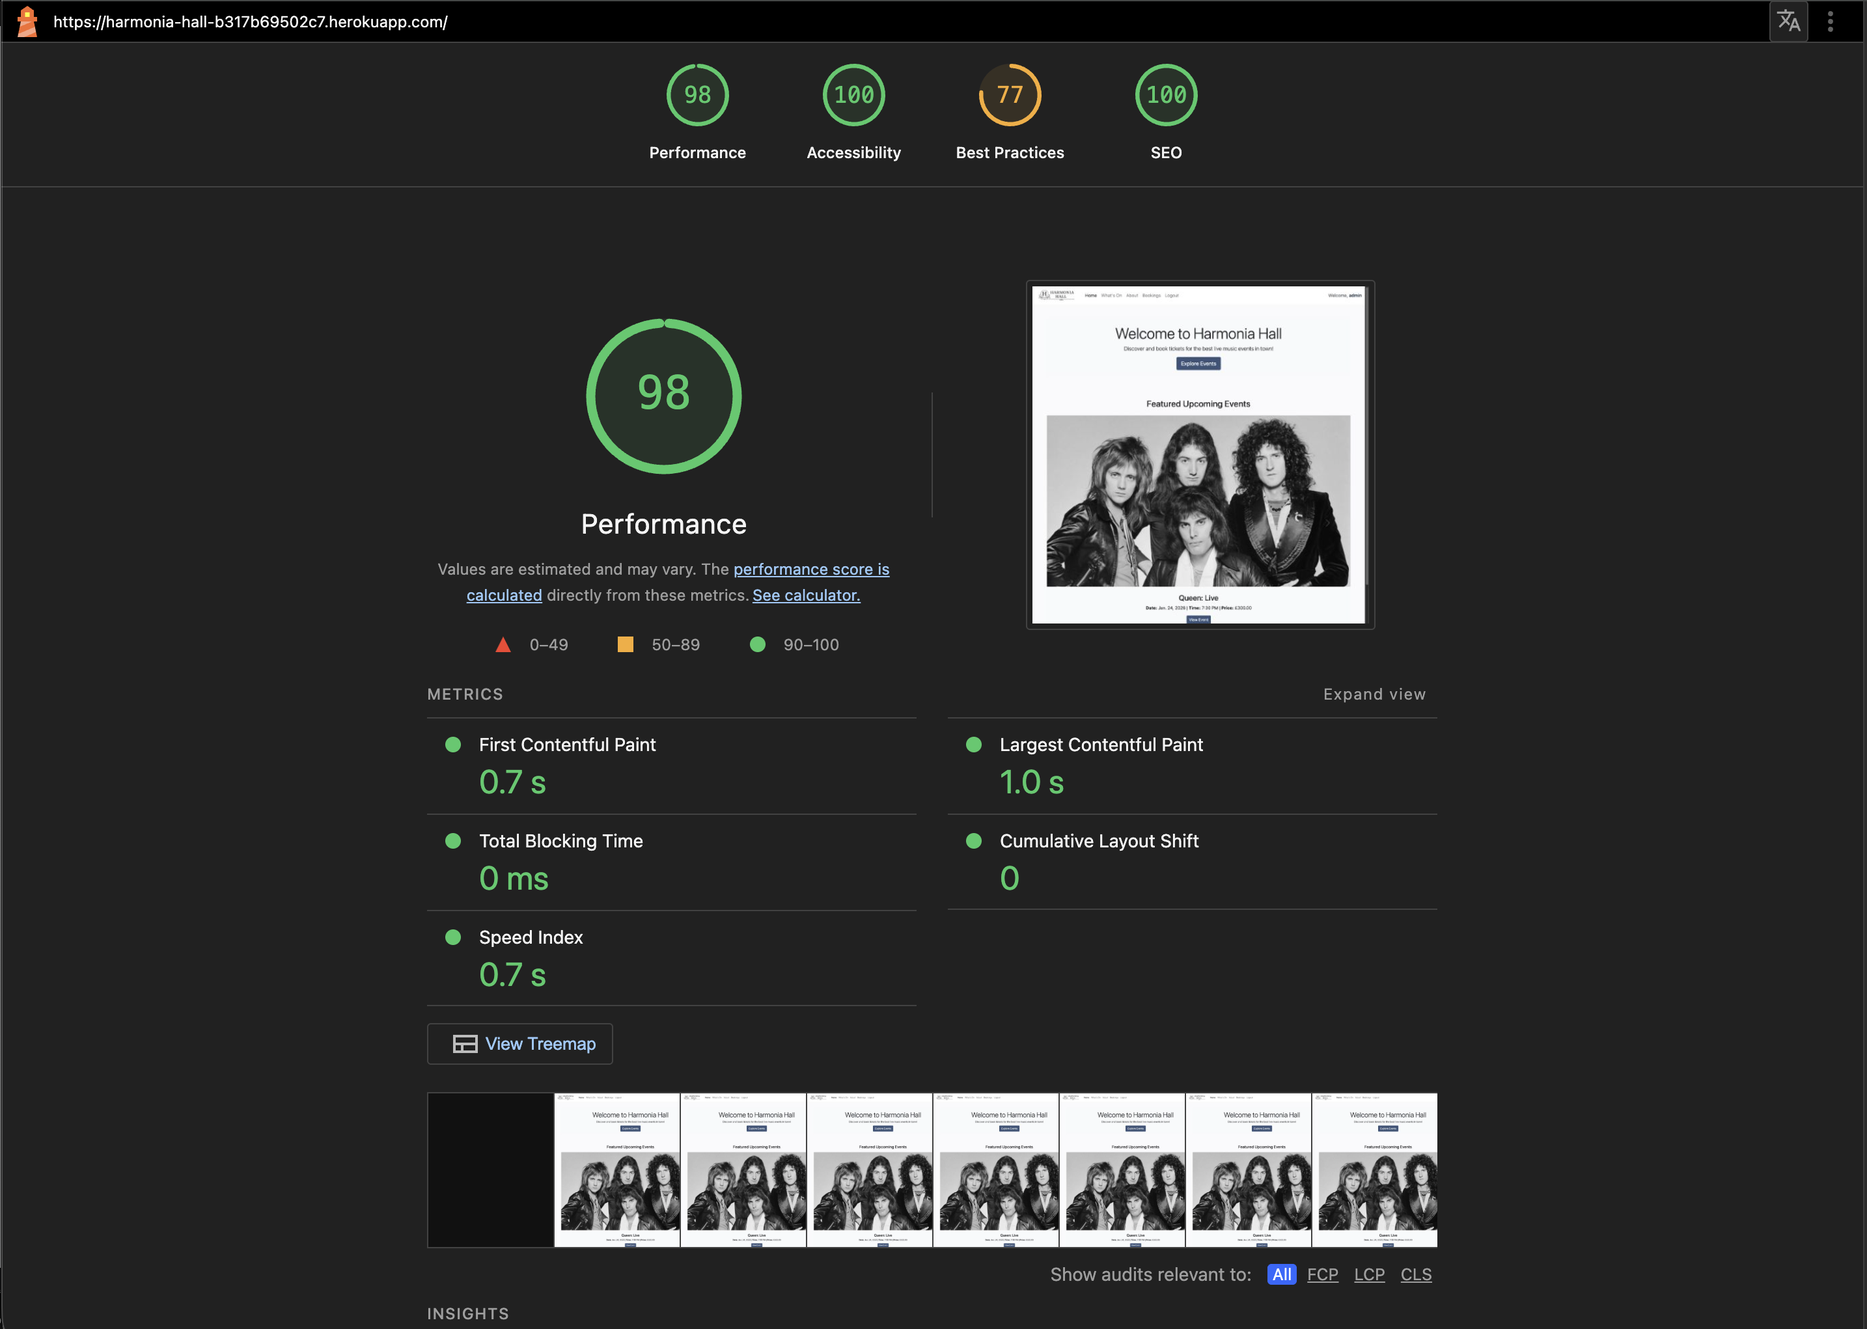
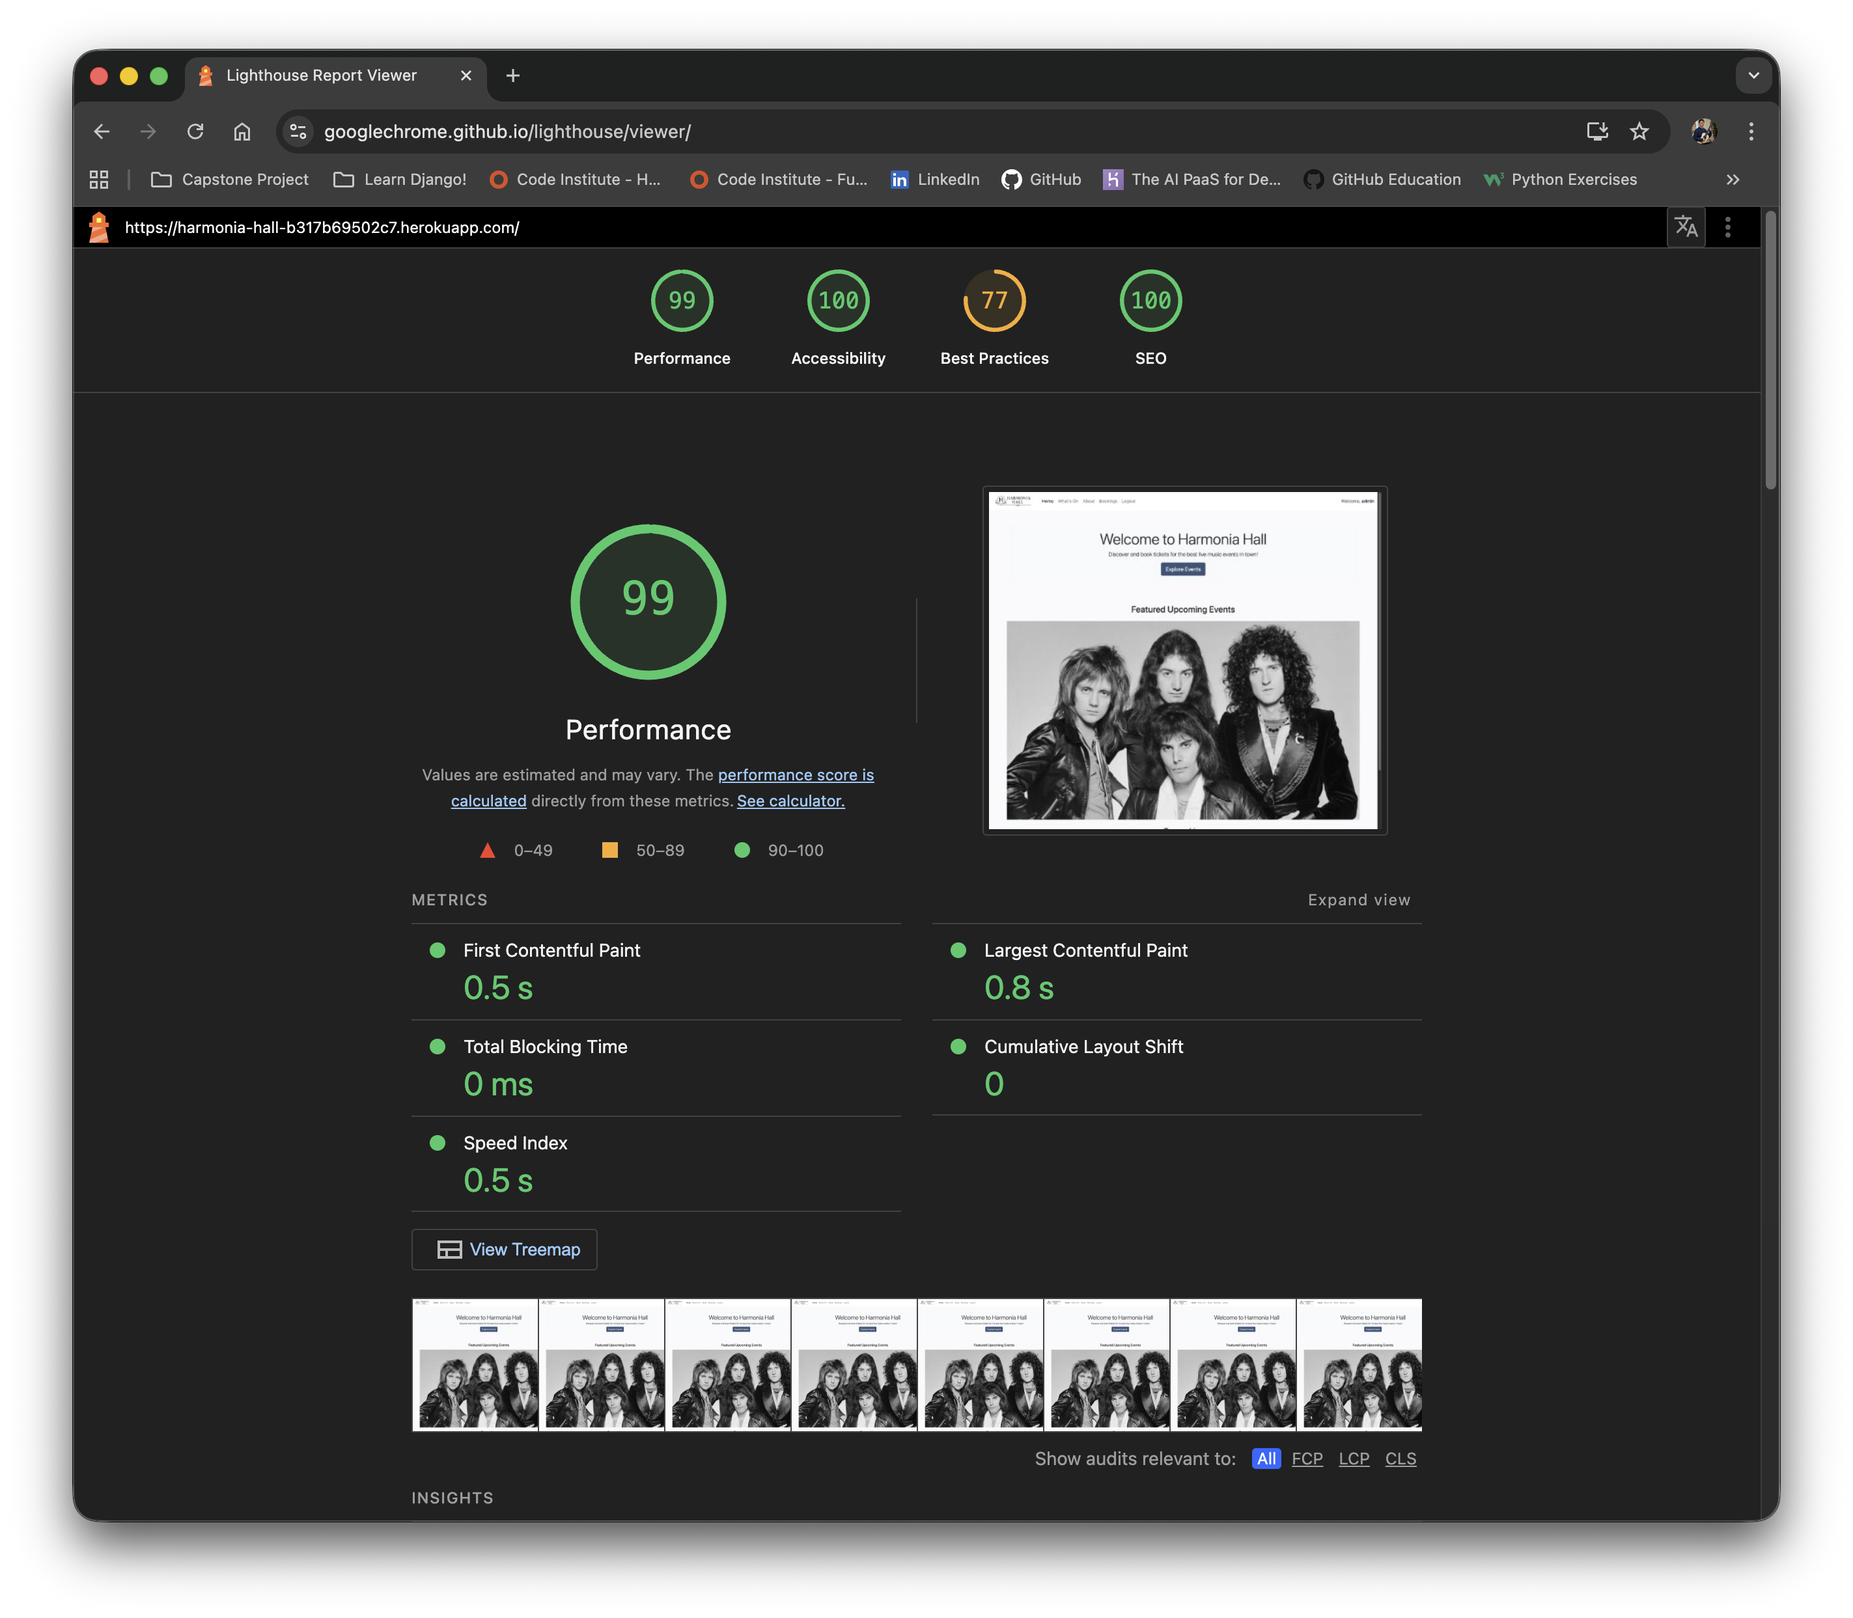
Update README.md for improved structure and clarity; add MVP features section

diff --git a/README.md b/README.md
@@ -1,6 +1,6 @@
 # Harmonia Hall
 
-<!-- TABLE OF CONTENTS (to be modified for this project) -->
+<!-- Table of Contents -->
 <details>
   <summary>Index</summary>
   <ol>
@@ -9,6 +9,7 @@
       <ul>
         <li><a href="#overview">Overview</a></li>
         <li><a href="#rationale">Rationale</a></li>
+        <li><a href="#MVP-features">MVP Features</a></li>
         <li><a href="#desktop-appearance">Desktop Appearance</a></li>
         <li><a href="#tablet-appearance">Tablet Appearance</a></li>
         <li><a href="#mobile-appearance">Mobile Appearance</a></li>
@@ -35,14 +36,16 @@
     <li><a href="#features">Features</a></li>
       <ul>
         <li><a href="#home-page">Home Page</a></li>
+        <li><a href="#whats-on-page">What's On Page</a></li>
         <li><a href="#about-page">About Page</a></li>
-        <li><a href="#contact-page">Contact Page</a></li>
+        <li><a href="#event-detail-page">Event Detail Page</a></li>
+        <li><a href="#sign-in">Sign In</a></li>
+        <li><a href="#sign-out">Sign Out</a></li>
         <li><a href="#bookings-page">Bookings Page</a></li>
         <li><a href="#navigation-bar">Navigation Bar</a></li>
         <li><a href="#footer">Footer</a></li>
-        <li><a href="#sign-in">Sign In</a></li>
-        <li><a href="#sign-out">Sign Out</a></li>
-        <li><a href="#admin">Admin</a></li>
+        <li><a href="#django-admin-login">Django Admin Login</a></li>
+        <li><a href="#django-admin-event-management">Django Admin Event Management</a></li>
       </ul>
     </li>
     <li><a href="#bugs">Bugs</a></li>
@@ -62,19 +65,21 @@
     </li>
     <li><a href="#use-of-ai">Use of AI</a></li>
     <li><a href="#deployment">Deployment</a></li>
+    <li><a href="#future-development">Future Development</a></li>
     <li><a href="#credits">Credits</a></li>
   </ol>
 </details>
 
+<!-- About the Project -->
 ## About the Project
-<!-- Overview of project -->
-![Am I Responsive](/images/responsive.png)
-*Am I Responsive showing the Harmonia Hall site on multiple device sizes*
 
+![Am I Responsive](/images/responsive.png)
+*'Am I Responsive' site, showing the Harmonia Hall site on multiple device sizes*
+<!-- Overview of project -->
 ### Overview
 This project is a full-stack web application built using the Django framework. It uses Python, HTML and CSS to create a dynamic and responsive site for a fictious concert venue called Harmonia Hall. The application allows users to view upcoming events, book tickets, and manage their bookings. It also includes user authentication features, enabling users to create accounts, log in, and log out securely.
 
-You can visit the deplyed site at: [Harmonia Hall](https://harmonia-hall-b317b69502c7.herokuapp.com/)
+You can visit the deployed site at: [Harmonia Hall](https://harmonia-hall-b317b69502c7.herokuapp.com/)
 
 ### Rationale
 The aim of this project is to provide a solution to the following problem faced by the venue, Harmonia Hall, and its event attendees:
@@ -83,8 +88,9 @@ The aim of this project is to provide a solution to the following problem faced 
 
 This web application addresses these challenges by providing a comprehensive, user-friendly booking platform that streamlines the entire event management process. The platform enables attendees to easily discover upcoming events, view real-time availability, and securely reserve tickets with capacity tracking to prevent overbooking. Built-in booking management features allow users to view, modify, or cancel their reservations at any time, while administrators benefit from a robust backend system to create, manage, and monitor events and bookings. By implementing real-time capacity validation, enforcing one booking per user per event, and providing clear error messaging and confirmation feedback, the application eliminates double bookings, ensures accurate capacity management, and delivers a seamless, trustworthy booking experience for both venue operators and customers.
 
-With this in mind, this application is designed for two primary user groups. First, it serves music enthusiasts and event-goers who seek a convenient, reliable platform to discover upcoming live music and other events, browse event details, and securely book tickets without the fear of overbooking or capacity conflicts. Second, it caters to venue administrators and staff at Harmonia Hall, who require efficient tools to create and manage events, track real-time capacity and bookings, and maintain accurate event listings. Whether its users are looking to attend their next favorite concert or manage a busy event venue, this application provides an intuitive, reliable solution that enhances the overall event experience for both attendees and venue operators alike.
+With this in mind, this application has been designed for two primary user groups. First, it serves music enthusiasts and event-goers who seek a convenient, reliable platform to discover upcoming live music and other events, browse event details, and securely book tickets without the fear of overbooking or capacity conflicts. Second, it caters to venue administrators and staff at Harmonia Hall, who require efficient tools to create and manage events, track real-time capacity and bookings, and maintain accurate event listings. Whether its users are looking to attend their next favorite concert or manage a busy event venue, this application provides an intuitive, reliable solution that enhances the overall event experience for both attendees and venue operators alike.
 
+### MVP Features
 The MVP (minimum viable product) for this project includes the following core features:
 - User Registration and Authentication: Allow users to create accounts, log in, and log out securely.
 - Event Listings: Display a list of upcoming events with details such as date, time, location, and availability.
@@ -106,17 +112,18 @@ The MVP (minimum viable product) for this project includes the following core fe
 
 <!-- Overview of UX Design of project -->
 ## UX Design
-For the icons, I used [**Font Awesome**](https://fontawesome.com)
+For the social media icons, I used [**Font Awesome**](https://fontawesome.com).
 
 For the colour scheme, I used [**Colormind**](http://colormind.io) to generate a palette based on images of concert venues and music events.
 ![Colormind](/images/colormind-palette.png)
 *screenshot of colour palette generated by Colormind*
 
+For the fonts, I used Google Fonts 'Lato' font, and Bootstrap's default fonts, with Lato being used specifically for the footer.
 
 ### Wireframes
-Wireframes were created for different viewports (mobile, tablet and desktop) to help visualise how the site would look on different devices.
+The following wireframes were created for different sized devices (mobile, tablet and desktop) to help visualise how the site would look on different devices.
 
-I used the software _Balsamiq_, to create the following wireframe diagrams.
+I used [**Balsamiq**](https://balsamiq.com) to create the following wireframe diagrams.
 
 <details>
 <summary><strong>Wireframe Diagrams</strong></summary>
@@ -148,10 +155,15 @@ I used the software _Balsamiq_, to create the following wireframe diagrams.
 </details>
 
 ### Database Structure (ERD)
-The database structure for this project is based around three main models: Event, Booking, and User (using Django's built-in User model). This is illustrated in the Entity Relationship Diagram (ERD) below.
+The database structure for this project is based around three main models: Event, Booking, and User (using Django's built-in User model).The main entities and their relationships are as follows:
+- Event: Represents an event at the concert venue, with attributes such as title, date, time, venue, price, capacity, and description.
+- Booking: Represents a booking made by a user for a specific event, with attributes such as user (foreign key to User), event (foreign key to Event), number of tickets, and booking date.
+- User: Represents a user of the site, with attributes such as username, email, and password (handled by Django's Allauth authentication system).
+
+This is illustrated in the Entity Relationship Diagram (ERD) below, created using [**dbdiagram.io**](https://dbdiagram.io).
 
 ![ERD](/images/erd.png)
-*Entity Relationship Diagram (ERD) showing database structure*
+*Entity Relationship Diagram (ERD) from [dbdiagram.io](https://dbdiagram.io) showing database structure*
 
 <!-- Overview of User Stories project -->
 ## User Stories
@@ -291,21 +303,56 @@ The project board for this project can be found here: https://github.com/users/j
 
 
 ### Outcomes
-- Must Haves: All completed successfully.
-- Should Haves: ...
-- Could Haves: ...
-- Won't Haves: ...
+- Must Haves: All completed successfully, with thorough testing to ensure functionality and usability, reaching the MVP.
+- Should Haves: The Manage Events and About Page user stories were completed successfully. The Profile Management and Edit Profile user stories were not implemented due to time constraints.
+- Could Haves and Won't Haves: These user stories were not implemented as the should haves were prioritised, and were not fully completed.
 
 <!-- Overview of features of the project -->
 ## Features
+
+<details>
+<summary><strong>Feature Details</strong></summary>
+
+### Home Page
+![home page](/images/home.png)
+*screenshot of home page*
 - Home page (with screenshot): what does it offer to a user?
+### What's On Page
+![what's on page](/images/whats-on.png)
+### About Page
+![about page](/images/about.png)
 - About page (with screenshot): what does it offer to a user?
-- bookings... (with screenshot): what does it offer to a user?
+### Event Detail Page
+![event detail page](/images/event-detail.png)
+- Event detail page (with screenshot): what does it offer to a user?
+### Sign In
+![sign in page](/images/signin.png)
 - Sign in... etc.
+### Sign Out
+![sign out page](/images/signout.png)
 - Sign out...
+### Bookings Page
+![bookings page](/images/bookings.png)
+- bookings... (with screenshot): what does it offer to a user?
+### Navigation Bar
+![navigation bar](/images/navbar.png)
 - Navigation bar
+### Footer
+![footer](/images/footer.png)
 - Footer...
+### Django Admin Login
+![Django admin login](/images/admin-login.png)
 - Admin...
+### Django Admin Event Management
+![Django admin event management](/images/admin-events.png)
+- Event management...
+
+
+The main differences between the end product and the wireframes are within the home page, What's On page and the lack of a contact page.
+I decided to simplify the Home page by removing the featured events as a grid, and instead using a carousel to highlight upcoming events. This was to create a cleaner look and feel, and to make it easier for users to get an overview of the events available. Linking to this change, I implemented the card layout featured on the Home page wireframe, into the What's On page. This allowed for a more visual representation of the events, making it easier for users to browse and select events of interest. I would like to make the date element more prominent in future iterations, as I feel this is an important piece of information for users when browsing events.
+Finally, I decided not to prioritise the contact page, as I felt that the About page provided sufficient information about the venue. However, this is something that I would liked to be added in the future to enhance the user experience further. I have included a section in the Future Development part of this README to outline more features and functionality I would like to add.
+
+</details>
 
 <!-- Overview of bugs and solutions -->
 ## Bugs
@@ -339,12 +386,12 @@ The project board for this project can be found here: https://github.com/users/j
 | Log in link | success | success |
 
 ### Lighthouse Testing
-- Description of Lighthouse testing done, e.g., performance, accessibility, best practices, SEO.
+The lighthouse testing was completed for each page, passing all categories. The Best Practices had a lower score due to the use of 3rd party cookies from Cloudinary for image hosting. From my research, this is a common issue when using 3rd party image hosting services, as they often use cookies for tracking and analytics purposes. As this is outside of my control as the developer, I have accepted this lower score in this category.
 ![Lighthouse Report](/images/lighthouse-report.png)
 *Screenshot of Lighthouse report showing scores for performance, accessibility, best practices, and SEO*
 
 ### Responsive Testing
-- Description of responsive testing done, e.g., different devices, screen sizes, etc.
+I tested the responsiveness of the site constantly throughout the development process, using both browser developer tools and real devices such as my iPhone and iPad. I ensured that the layout and functionality of the site adapted correctly to different screen sizes and orientations. When there were issued, I made sure to address them promptly, using media queries and bootstrap to ensure a consistent user experience across all devices.
 
 ### Validator Testing
 
@@ -352,11 +399,15 @@ The project board for this project can be found here: https://github.com/users/j
 ![W3C HTML Validation](/images/w3c-html-validation.png)
 *Screenshot of passing W3C HTML validation*
 
+The HTML code for the site was validated using the W3C Markup Validation Service. Minor errors such as heading issues, were addressed and corrected to ensure compliance with HTML standards.
 #### W3C CSS Validation
 ![W3C CSS Validation](/images/w3c-css-validation.png)
 *Screenshot of passing W3C CSS validation*
+The CSS code for the site was validated using the W3C CSS Validation Service. No errors were found during this validation process.
+#### Python PEP8 Validation
+On validating my Python code using PEP8 standards, I realised that I had issues with my line lengths exceeding the recommended 79 characters. This was due to my linter being set to a different line length limit. I addressed this by adjusting my linter settings to match PEP8 standards, then subsequently, refactoring my code to ensure compliance with the 79 character limit. This involved breaking up longer lines of code into multiple lines, and ensuring that my code was properly indented and formatted. As this was noticed at a later stage, I was not able to address all instances of this issue, but I made sure to correct as many as possible to improve the overall quality and readability of my code. This is something I will be more mindful of in future projects, ensuring that I adhere to coding standards from the outset, although I am also aware that many teams and projects have their own specific coding standards that may differ from this specific guideline.
 
-- Description of validator testing done, e.g., W3C HTML, CSS, Python PEP8, JS (-JS hint? ).
+I did not use any custom JavaScript in this project, so I felt there was no need to validate any JS code.
 
 </details>
 
@@ -379,12 +430,12 @@ I also used Claude to help with debugging certain issues I was having. When doin
 
 <!-- Overview of How the project was deployed -->
 ## Deployment 
-The site was deployed to Heroku from the main branch of my GitHub repository. Bewlow are the steps I took to deploy the site:
+The site was deployed to Heroku from the main branch of my GitHub repository. Below are the steps I took to deploy the site:
 
-1. I navigated to my Heroku account and create a new app
+1. I navigated to my Heroku account and created a new app.
 2. I gave the app an appropriate and unique name and selected the region closest to me (Europe).
 3. In the "Deploy" tab, I connected my GitHub repository to Heroku by searching for the repository name and clicking "Connect".
-4. I then went to the "Settings" tab and clicked on "Reveal Config Vars"
+4. I then went to the "Settings" tab and clicked on "Reveal Config Vars".
 5. I added the necessary config vars, such as my `SECRET_KEY`, `DATABASE_URL`, `CLOUDINARY_URL`, as these environment variables are required for the app to run correctly.
 6. Next, I went back to the "Deploy" tab, selected the main branch, and deployed the app by clicking on "Deploy Branch".
 7. Once the deployment was complete, I navigated to the "Overview" tab and clicked on "Open App" to view my live site.
@@ -408,9 +459,8 @@ Some features that could be added in the future to enhance the functionality and
 - Add Shopping Cart to allow for subtotals, multiple bookings at once.
 - Integrate real payment functionality
 - Option to select venue, to allow for expansion into concerts in other performance spaces within concert venue
-<!-- ========================================
-     CREDITS
-     ======================================== --><!-- Credits for project -->
+
+<!-- Credits for project -->
 ## Credits
 
 ### Code
@@ -426,12 +476,16 @@ For this project, I used the following libraries and frameworks:
 - Heroku: Cloud platform for deploying and hosting the web application.
 
 ### Content
-- Text content sources: e.g., Wikipedia, blogs, articles, etc.
+- Text content on the website is a mixture of original writing, variations on existing content from similar sites and AI-assisted text generation.
+
 
 ### Media
-- Image sources: Unsplash, iStock
+The media used in this project were in two distinct categories: the About page images (including interior and exterior shots of a concert venue) These images were sourced from:
+- Image sources: Unsplash, and are free to use under the Unsplash license.
+- Event images: These were all images taken from various event listing sites. As this is a demo site, and the events are fictitious, I felt this was acceptable for the purposes of demonstrating the functionality of the site. I wanted to ensure that the images used gave a good representation of the type of events that would be held at a concert venue like Harmonia Hall.
 ### Acknowledgements
-- Mentors, tutors, peers, etc.
+I would like to thank 
+
 
 
 - Am I Responsive: for responsive design image
